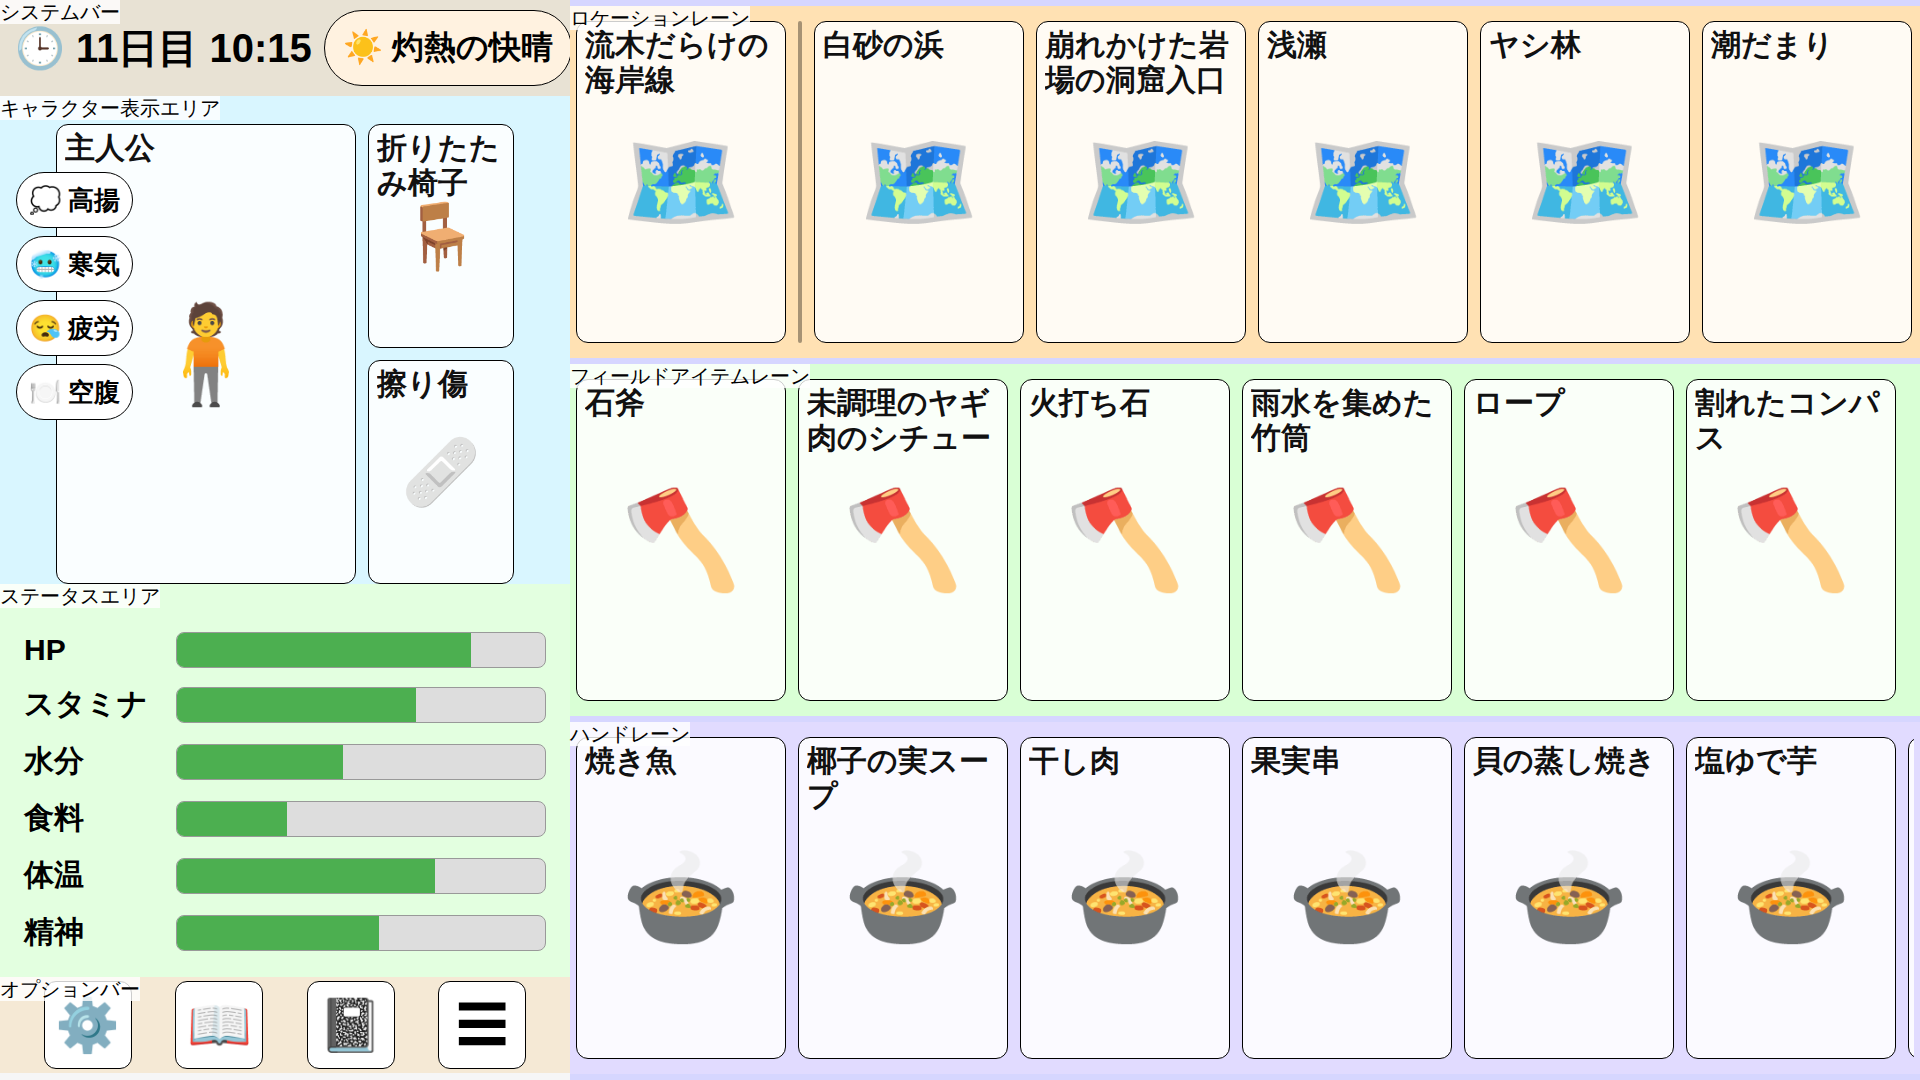
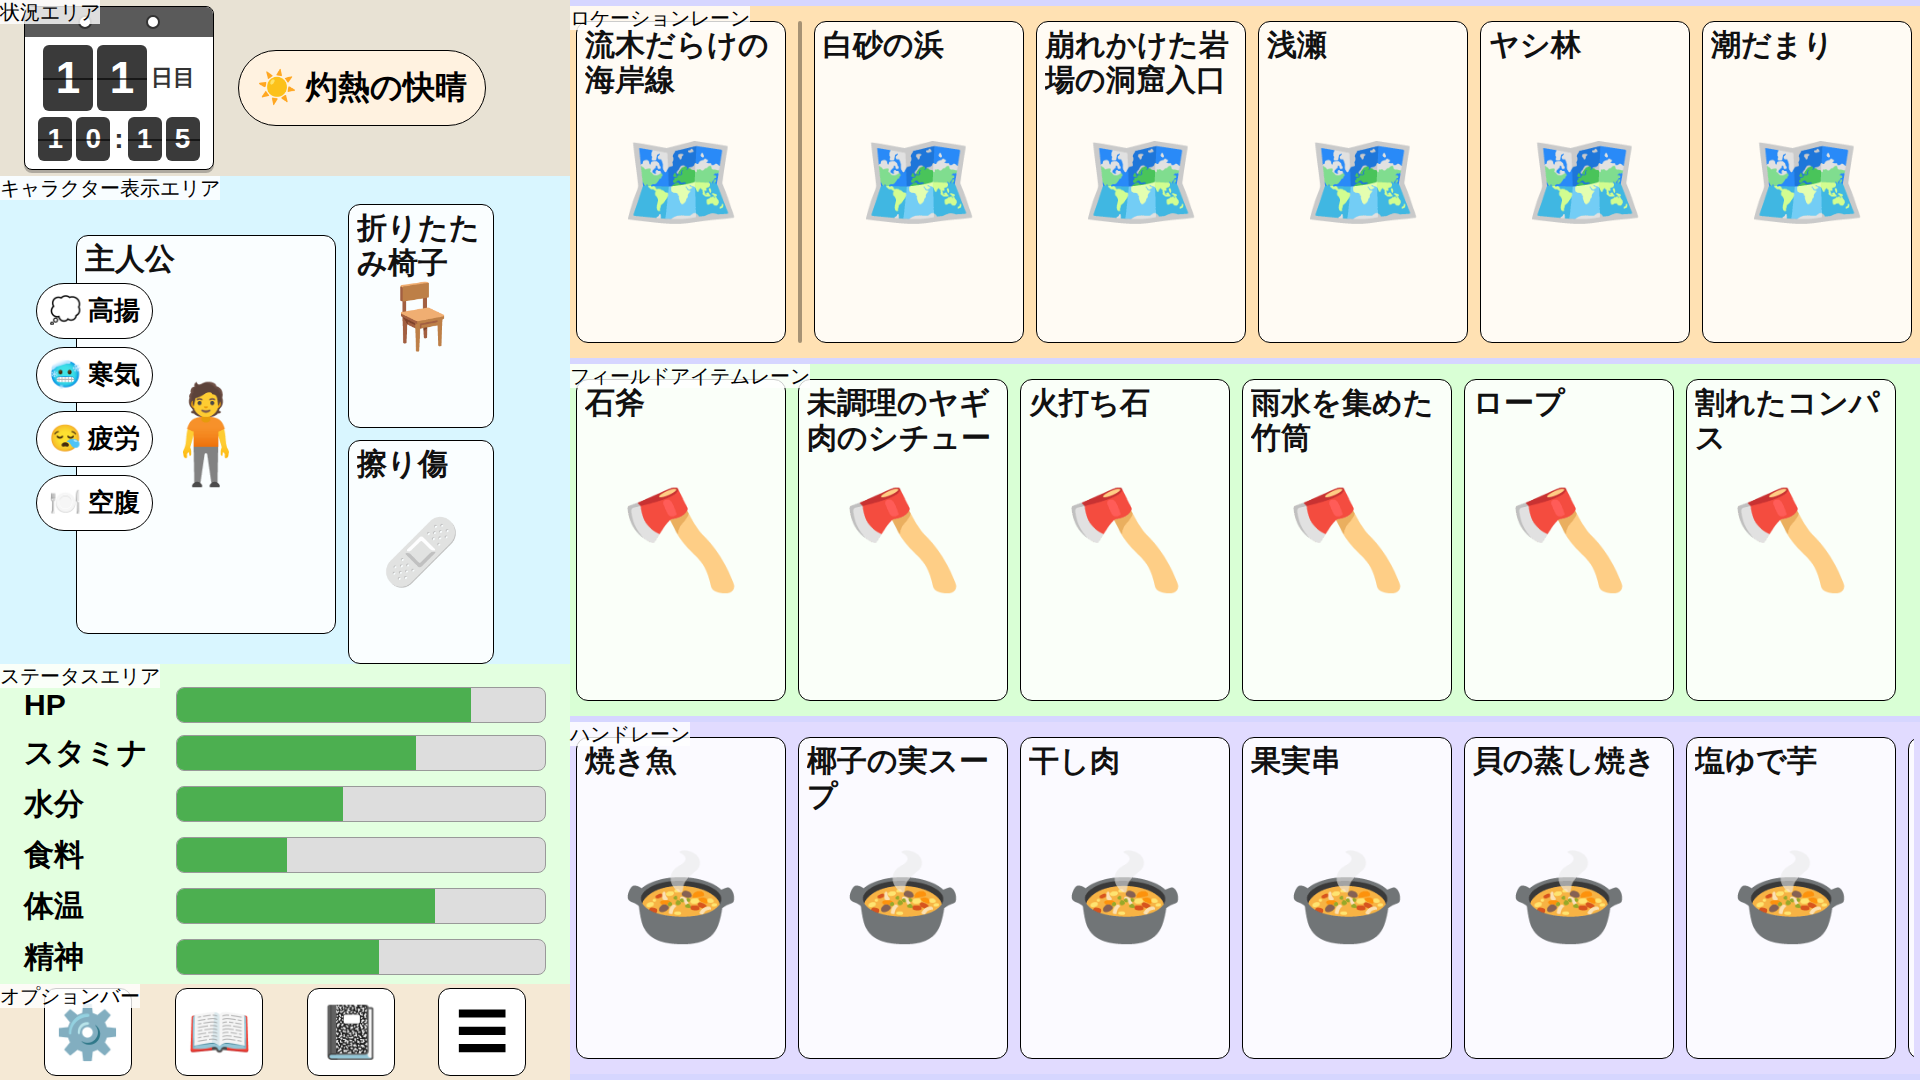
docs: システムバーを廃止し状況エリア（日めくりカレンダー・天候）を新設
- 日時を卓上日めくりカレンダー風ウィジェットに変更。経過日数・時刻は
  スコアボードのように一桁ずつのフリップカードで構成し、タップで
  時間経過アクションのボトムシートを開く想定
- 状況エリアをフィールドエリア直上（横型はダッシュボード列最上段）に
  配置し、時間・天候・現在地が縦に並ぶようにした
- オプションボタンは縦型で画面右上（ステータスエリア上端）、
  横型で左下のオプションバーに配置

Claude-Session: https://claude.ai/code/session_017mz69xFpjWLJMvgraCLnuJ

Changed region(s): [[0.0, 0.0, 0.3125, 1.0]]

diff --git a/Documents/UI/ScreenLayout_Mock.html b/Documents/UI/ScreenLayout_Mock.html
@@ -18,8 +18,9 @@
       --gap: calc(12 * var(--u));
       --margin: calc(6 * var(--u));
       --bar-h: calc(96 * var(--u));
-      --portrait-w: calc(300 * var(--u));
-      --portrait-h: calc(460 * var(--u));
+      --situation-h: calc(176 * var(--u));
+      --portrait-w: calc(260 * var(--u));
+      --portrait-h: calc(399 * var(--u));
       --small-card-w: calc(146 * var(--u));
       --small-card-h: calc(224 * var(--u));
       --radius: calc(12 * var(--u));
@@ -64,6 +65,13 @@
       width: 100%;
       height: 100%;
       background: #f6f6f6;
+    }
+
+    .dashboard-column {
+      display: flex;
+      flex-direction: column;
+      flex: 1;
+      min-height: 0;
     }
 
     /* ---- カード ---- */
@@ -116,56 +124,6 @@
     .portrait-card { --card-icon: "🧍"; }
     .equipment-card { --card-icon: "🪑"; }
     .injury-card { --card-icon: "🩹"; }
-
-    /* ---- システムバー ---- */
-
-    .system-bar {
-      position: relative;
-      height: var(--bar-h);
-      flex-shrink: 0;
-      display: flex;
-      align-items: center;
-      gap: var(--gap);
-      padding: 0 calc(15 * var(--u));
-      background: #e8e2d4;
-    }
-
-    .datetime {
-      font-size: calc(40 * var(--u));
-      font-weight: 700;
-      white-space: nowrap;
-    }
-
-    .weather-chip {
-      display: flex;
-      align-items: center;
-      gap: calc(8 * var(--u));
-      height: calc(76 * var(--u));
-      padding: 0 calc(18 * var(--u));
-      border: 1px solid #000;
-      border-radius: calc(38 * var(--u));
-      background: #fff2e0;
-      font-size: calc(32 * var(--u));
-      font-weight: 700;
-      white-space: nowrap;
-    }
-
-    .system-bar .spacer { flex: 1; }
-
-    .icon-button {
-      width: calc(88 * var(--u));
-      height: calc(88 * var(--u));
-      flex-shrink: 0;
-      border: 1px solid #000;
-      border-radius: var(--radius);
-      background: #ffffff;
-      font-size: calc(52 * var(--u));
-      line-height: 1;
-      display: flex;
-      align-items: center;
-      justify-content: center;
-      padding: 0;
-    }
 
     /* ---- キャラクターエリア ---- */
 
@@ -243,8 +201,30 @@
       flex-direction: column;
       justify-content: center;
       gap: calc(16 * var(--u));
-      padding: calc(48 * var(--u)) calc(24 * var(--u)) calc(24 * var(--u));
+      padding: calc(24 * var(--u));
       background: #e3ffe0;
+    }
+
+    .status-options {
+      display: flex;
+      justify-content: flex-end;
+      gap: var(--gap);
+      margin-bottom: calc(8 * var(--u));
+    }
+
+    .icon-button {
+      width: calc(88 * var(--u));
+      height: calc(88 * var(--u));
+      flex-shrink: 0;
+      border: 1px solid #000;
+      border-radius: var(--radius);
+      background: #ffffff;
+      font-size: calc(52 * var(--u));
+      line-height: 1;
+      display: flex;
+      align-items: center;
+      justify-content: center;
+      padding: 0;
     }
 
     .status-item {
@@ -272,6 +252,127 @@
     .status-bar {
       height: 100%;
       background: #4caf50;
+    }
+
+    /* ---- 状況エリア（日めくりカレンダー・天候） ---- */
+
+    .situation-area {
+      position: relative;
+      height: var(--situation-h);
+      flex-shrink: 0;
+      display: flex;
+      align-items: center;
+      gap: calc(24 * var(--u));
+      padding: 0 calc(24 * var(--u));
+      background: #e8e2d4;
+    }
+
+    .flip-calendar {
+      width: calc(190 * var(--u));
+      height: calc(164 * var(--u));
+      flex-shrink: 0;
+      border: 1px solid #000;
+      border-radius: calc(8 * var(--u));
+      background: #fff;
+      padding: 0;
+      font: inherit;
+      position: relative;
+      overflow: hidden;
+      display: flex;
+      flex-direction: column;
+      box-shadow: 0 calc(3 * var(--u)) 0 rgba(0, 0, 0, 0.25);
+    }
+
+    .calendar-binding {
+      height: calc(30 * var(--u));
+      flex-shrink: 0;
+      background: #5a5a5a;
+      display: flex;
+      align-items: center;
+      justify-content: space-evenly;
+    }
+
+    .calendar-ring {
+      width: calc(14 * var(--u));
+      height: calc(14 * var(--u));
+      border-radius: 50%;
+      background: #fff;
+      border: calc(2 * var(--u)) solid #333;
+    }
+
+    .calendar-body {
+      flex: 1;
+      display: flex;
+      flex-direction: column;
+      align-items: center;
+      justify-content: center;
+      gap: calc(6 * var(--u));
+      line-height: 1;
+    }
+
+    .calendar-row {
+      display: flex;
+      align-items: center;
+      gap: calc(4 * var(--u));
+    }
+
+    .flip-digit {
+      display: flex;
+      align-items: center;
+      justify-content: center;
+      background: #3a3a3a;
+      color: #fff;
+      border-radius: calc(6 * var(--u));
+      font-weight: 700;
+      position: relative;
+      overflow: hidden;
+    }
+
+    .flip-digit::after {
+      content: "";
+      position: absolute;
+      left: 0;
+      right: 0;
+      top: 50%;
+      border-top: calc(2 * var(--u)) solid rgba(0, 0, 0, 0.6);
+    }
+
+    .calendar-row-day .flip-digit {
+      width: calc(50 * var(--u));
+      height: calc(66 * var(--u));
+      font-size: calc(44 * var(--u));
+    }
+
+    .calendar-row-time .flip-digit {
+      width: calc(34 * var(--u));
+      height: calc(44 * var(--u));
+      font-size: calc(28 * var(--u));
+    }
+
+    .calendar-day-unit {
+      font-size: calc(22 * var(--u));
+      font-weight: 700;
+      color: #333;
+    }
+
+    .calendar-colon {
+      font-size: calc(28 * var(--u));
+      font-weight: 700;
+      color: #333;
+    }
+
+    .weather-chip {
+      display: flex;
+      align-items: center;
+      gap: calc(8 * var(--u));
+      height: calc(76 * var(--u));
+      padding: 0 calc(18 * var(--u));
+      border: 1px solid #000;
+      border-radius: calc(38 * var(--u));
+      background: #fff2e0;
+      font-size: calc(32 * var(--u));
+      font-weight: 700;
+      white-space: nowrap;
     }
 
     /* ---- オプションバー（横型のみ表示） ---- */
@@ -347,17 +448,12 @@
     @media (orientation: landscape) {
       .screen { flex-direction: row; }
 
-      .dashboard-column {
-        flex: 1;
-        min-width: calc(570 * var(--u));
-        display: flex;
-        flex-direction: column;
-      }
+      .situation-area { order: -1; }
 
       .character-area {
         flex-direction: column;
-        flex: none;
-        height: auto;
+        flex: 1;
+        min-height: 0;
       }
 
       .character-display {
@@ -368,38 +464,24 @@
 
       .equip-injury { flex-direction: column; }
 
-      .status-area { flex: 1; min-height: 0; }
+      .status-area {
+        flex: 1;
+        min-height: 0;
+        gap: calc(10 * var(--u));
+        padding: calc(32 * var(--u)) calc(24 * var(--u)) calc(16 * var(--u));
+      }
+
+      .status-options { display: none; }
 
       .options-bar { display: flex; }
 
-      .system-bar .icon-button { display: none; }
-
       .field-area { width: calc(1350 * var(--u)); height: auto; }
-    }
-
-    @media (orientation: portrait) {
-      .dashboard-column {
-        display: flex;
-        flex-direction: column;
-        flex: 1;
-        min-height: 0;
-      }
     }
   </style>
 </head>
 <body>
   <div class="screen">
     <div class="dashboard-column">
-      <header class="system-bar">
-        <div class="label">システムバー</div>
-        <div class="datetime">🕒 11日目 10:15</div>
-        <div class="weather-chip">☀ 灼熱の快晴</div>
-        <div class="spacer"></div>
-        <button class="icon-button" type="button" aria-label="設定" title="設定">⚙</button>
-        <button class="icon-button" type="button" aria-label="図鑑" title="図鑑">📖</button>
-        <button class="icon-button" type="button" aria-label="日記" title="日記">📓</button>
-        <button class="icon-button" type="button" aria-label="メニュー" title="メニュー">☰</button>
-      </header>
       <section class="character-area">
         <div class="character-display">
           <div class="label">キャラクター表示エリア</div>
@@ -419,6 +501,12 @@
         </div>
         <div class="status-area">
           <div class="label">ステータスエリア</div>
+          <div class="status-options">
+            <button class="icon-button" type="button" aria-label="設定" title="設定">⚙</button>
+            <button class="icon-button" type="button" aria-label="図鑑" title="図鑑">📖</button>
+            <button class="icon-button" type="button" aria-label="日記" title="日記">📓</button>
+            <button class="icon-button" type="button" aria-label="メニュー" title="メニュー">☰</button>
+          </div>
           <div class="status-item">
             <div class="status-name">HP</div>
             <div class="status-bar-container"><div class="status-bar" style="width:80%"></div></div>
@@ -444,6 +532,30 @@
             <div class="status-bar-container"><div class="status-bar" style="width:55%"></div></div>
           </div>
         </div>
+      </section>
+      <section class="situation-area">
+        <div class="label">状況エリア</div>
+        <button class="flip-calendar" type="button" aria-label="時間経過アクション" title="時間経過アクション">
+          <span class="calendar-binding">
+            <span class="calendar-ring"></span>
+            <span class="calendar-ring"></span>
+          </span>
+          <span class="calendar-body">
+            <span class="calendar-row calendar-row-day">
+              <span class="flip-digit">1</span>
+              <span class="flip-digit">1</span>
+              <span class="calendar-day-unit">日目</span>
+            </span>
+            <span class="calendar-row calendar-row-time">
+              <span class="flip-digit">1</span>
+              <span class="flip-digit">0</span>
+              <span class="calendar-colon">:</span>
+              <span class="flip-digit">1</span>
+              <span class="flip-digit">5</span>
+            </span>
+          </span>
+        </button>
+        <div class="weather-chip">☀ 灼熱の快晴</div>
       </section>
       <section class="options-bar">
         <div class="label">オプションバー</div>
